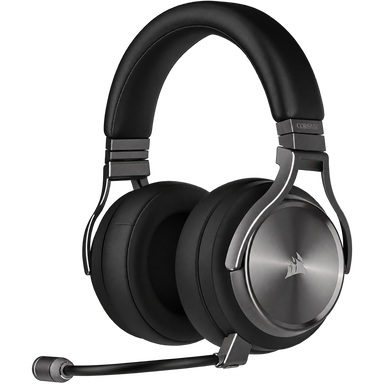
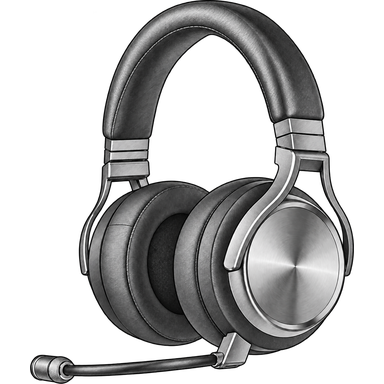
Replace the product photo with a drawing
The picture is now a drawing without logos. It is based on Corsair's
product photography, so it stays outside the Apache license; NOTICE and
the package's NOTICE.txt say so. Package version 0.1.1.

diff --git a/README.md b/README.md
@@ -10,8 +10,8 @@ a matching headset is plugged in. The behaviour comes from the
 [`corsair-v2w` driver](../borochid-driver-corsair-v2w), a system package
 the GUI offers to install through PackageKit the first time it's needed.
 
-**License:** Apache-2.0, except the headset's picture, which is Corsair's
-product photo and not covered by it. See [NOTICE](NOTICE).
+**License:** Apache-2.0, except the headset's picture, a drawing based on
+Corsair's product photography, which is not covered by it. See [NOTICE](NOTICE).
 
 ## What's in the manifest
 
